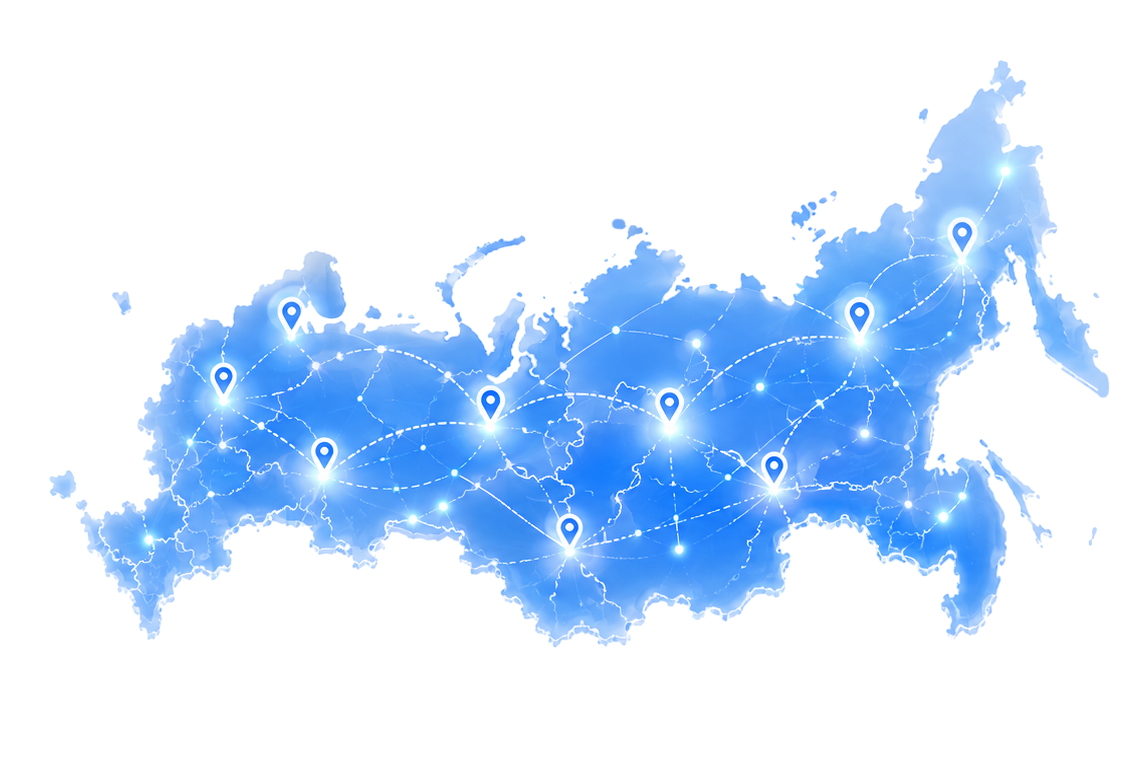
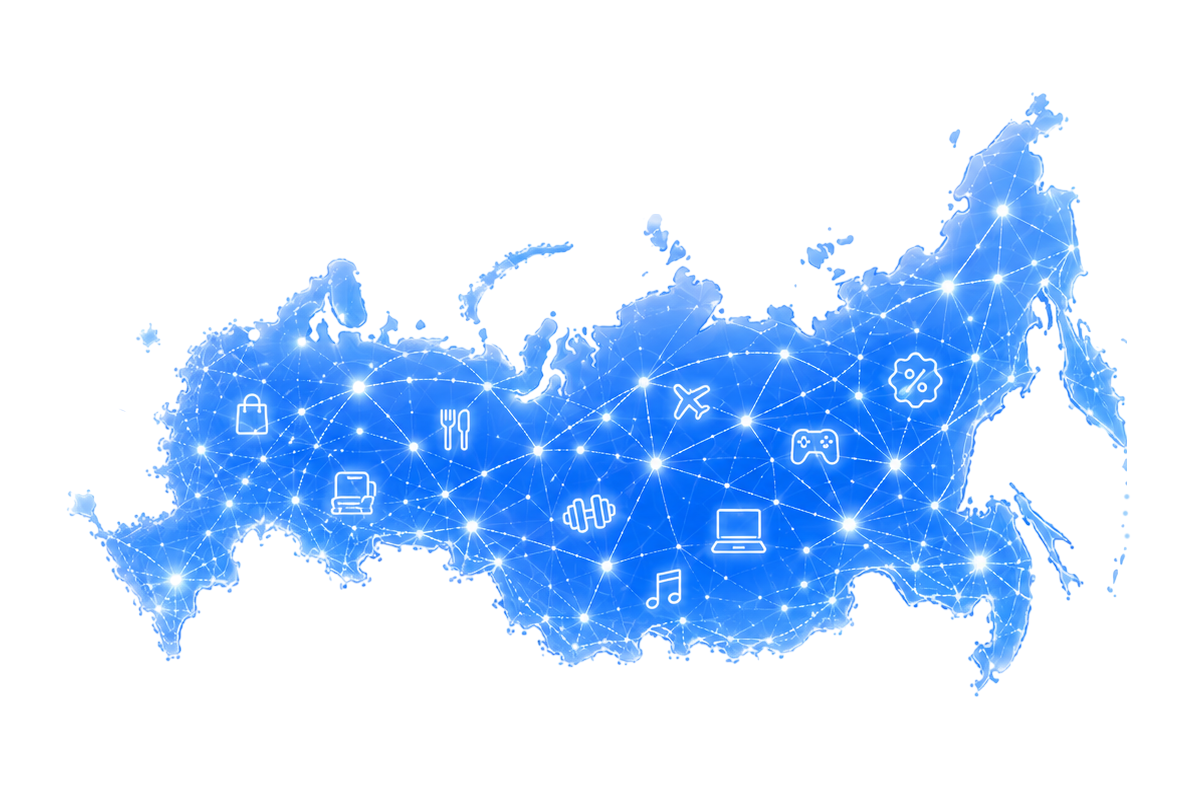
com18

Changed region(s): [[0.0306, 0.0615, 0.979, 0.8604], [0.0918, 0.3688, 0.1224, 0.3995]]

diff --git a/index.html b/index.html
@@ -119,7 +119,6 @@
             <p class="header__list-item__text">Большие выгоды -<br>меньше трат</p>
           </li>
         </ul>
-
       </div>
     </div>
   </header>
@@ -132,8 +131,8 @@
             <h2 class="categories__title title">Путешествуйте, отдыхайте, занимайтесь спортом и пользуйтесь услугами
               партнеров на <span>специальных условиях</span></h2>
             <ul class="categories__list">
-              <li data-tab="tab-1" class="categories__list-item active">Развлечения и досуг</li>
-              <li data-tab="tab-2" class="categories__list-item">Рестораны</li>
+              <li data-tab="tab-1" class="categories__list-item active">Рестораны</li>
+              <li data-tab="tab-2" class="categories__list-item">Развлечения и досуг</li>
               <li data-tab="tab-3" class="categories__list-item">Недвижимость и ремонт</li>
               <li data-tab="tab-4" class="categories__list-item">Одежда и обувь</li>
               <li data-tab="tab-5" class="categories__list-item">Спорт</li>
@@ -141,48 +140,6 @@
             </ul>
           </div>
           <div id="tab-1" class="categories__cards">
-            <a href="https://club.primezone.ru/deals/yandex_afisha_320051" target="_blank" class="categories__card">
-              <img src="./images/categories/entertainment/yandex.jpg" alt="yandex">
-              <div class="categories__card-disc categories__card-disc__spec">Cпециальные<br>условия</div>
-              <div class="categories__card-name">Яндекс Афиша</div>
-            </a>
-            <a href="https://club.primezone.ru/deals/kassir_303338" target="_blank" class="categories__card">
-              <img src="./images/categories/entertainment/kassir.jpg" alt="kassir">
-              <div class="categories__card-disc">100%</div>
-              <div class="categories__card-name">Kassir.ru</div>
-            </a>
-            <a href="https://club.primezone.ru/deals/ticketsold_315474" target="_blank" class="categories__card">
-              <img src="./images/categories/entertainment/ticket.jpg" alt="ticket">
-              <div class="categories__card-disc">15%</div>
-              <div class="categories__card-name">Ticketsold</div>
-            </a>
-            <a href="https://club.primezone.ru/deals/quizplease_310050" target="_blank" class="categories__card">
-              <img src="./images/categories/entertainment/kvis.jpg" alt="quizplease">
-              <div class="categories__card-disc">30%</div>
-              <div class="categories__card-name">Квиз, плиз!</div>
-            </a>
-            <a href="https://club.primezone.ru/deals/karofilm_303468" target="_blank" class="categories__card">
-              <img src="./images/categories/entertainment/karo.jpg" alt="karofilm">
-              <div class="categories__card-disc">до 30%</div>
-              <div class="categories__card-name">КАРО</div>
-            </a>
-            <a href="https://club.primezone.ru/deals/citysightseeing_306041" target="_blank" class="categories__card">
-              <img src="./images/categories/entertainment/citysightseeing.jpg" alt="City Sightseeing">
-              <div class="categories__card-disc">20%</div>
-              <div class="categories__card-name">City Sightseeing</div>
-            </a>
-            <a href="https://club.primezone.ru/deals/hitomania_319477" target="_blank" class="categories__card">
-              <img src="./images/categories/entertainment/hitomania.jpg" alt="hitomania">
-              <div class="categories__card-disc">20%</div>
-              <div class="categories__card-name">Хитомания</div>
-            </a>
-            <a href="https://club.primezone.ru/deals/standupstore_319583" target="_blank" class="categories__card">
-              <img src="./images/categories/entertainment/standupstore.jpg" alt="standupstore">
-              <div class="categories__card-disc">10%</div>
-              <div class="categories__card-name">StandUp Store</div>
-            </a>
-          </div>
-          <div id="tab-2" class="categories__cards hidden">
             <a href="https://club.primezone.ru/deals/tanuki_312849" target="_blank" class="categories__card">
               <img src="./images/categories/restaurants/tanuki.jpg" alt="tanuki">
               <div class="categories__card-disc">15%</div>
@@ -222,6 +179,48 @@
               <img src="./images/categories/restaurants/erwin.jpg" alt="erwin">
               <div class="categories__card-disc categories__card-disc__spec">Бесплатный<br>билет</div>
               <div class="categories__card-name">Яхта Erwin</div>
+            </a>
+          </div>
+          <div id="tab-2" class="categories__cards hidden">
+            <a href="https://club.primezone.ru/deals/yandex_afisha_320051" target="_blank" class="categories__card">
+              <img src="./images/categories/entertainment/yandex.jpg" alt="yandex">
+              <div class="categories__card-disc categories__card-disc__spec">Cпециальные<br>условия</div>
+              <div class="categories__card-name">Яндекс Афиша</div>
+            </a>
+            <a href="https://club.primezone.ru/deals/kassir_303338" target="_blank" class="categories__card">
+              <img src="./images/categories/entertainment/kassir.jpg" alt="kassir">
+              <div class="categories__card-disc">100%</div>
+              <div class="categories__card-name">Kassir.ru</div>
+            </a>
+            <a href="https://club.primezone.ru/deals/ticketsold_315474" target="_blank" class="categories__card">
+              <img src="./images/categories/entertainment/ticket.jpg" alt="ticket">
+              <div class="categories__card-disc">15%</div>
+              <div class="categories__card-name">Ticketsold</div>
+            </a>
+            <a href="https://club.primezone.ru/deals/quizplease_310050" target="_blank" class="categories__card">
+              <img src="./images/categories/entertainment/kvis.jpg" alt="quizplease">
+              <div class="categories__card-disc">30%</div>
+              <div class="categories__card-name">Квиз, плиз!</div>
+            </a>
+            <a href="https://club.primezone.ru/deals/karofilm_303468" target="_blank" class="categories__card">
+              <img src="./images/categories/entertainment/karo.jpg" alt="karofilm">
+              <div class="categories__card-disc">до 30%</div>
+              <div class="categories__card-name">КАРО</div>
+            </a>
+            <a href="https://club.primezone.ru/deals/citysightseeing_306041" target="_blank" class="categories__card">
+              <img src="./images/categories/entertainment/citysightseeing.jpg" alt="City Sightseeing">
+              <div class="categories__card-disc">20%</div>
+              <div class="categories__card-name">City Sightseeing</div>
+            </a>
+            <a href="https://club.primezone.ru/deals/hitomania_319477" target="_blank" class="categories__card">
+              <img src="./images/categories/entertainment/hitomania.jpg" alt="hitomania">
+              <div class="categories__card-disc">20%</div>
+              <div class="categories__card-name">Хитомания</div>
+            </a>
+            <a href="https://club.primezone.ru/deals/standupstore_319583" target="_blank" class="categories__card">
+              <img src="./images/categories/entertainment/standupstore.jpg" alt="standupstore">
+              <div class="categories__card-disc">10%</div>
+              <div class="categories__card-name">StandUp Store</div>
             </a>
           </div>
           <div id="tab-3" class="categories__cards hidden">

diff --git a/css/style.css b/css/style.css
@@ -296,7 +296,7 @@ main .popup {
 
 .header__logo {
     max-width: 170px;
-    margin-bottom: 80px;
+    margin-bottom: 60px;
 }
 
 .header__logo img {
